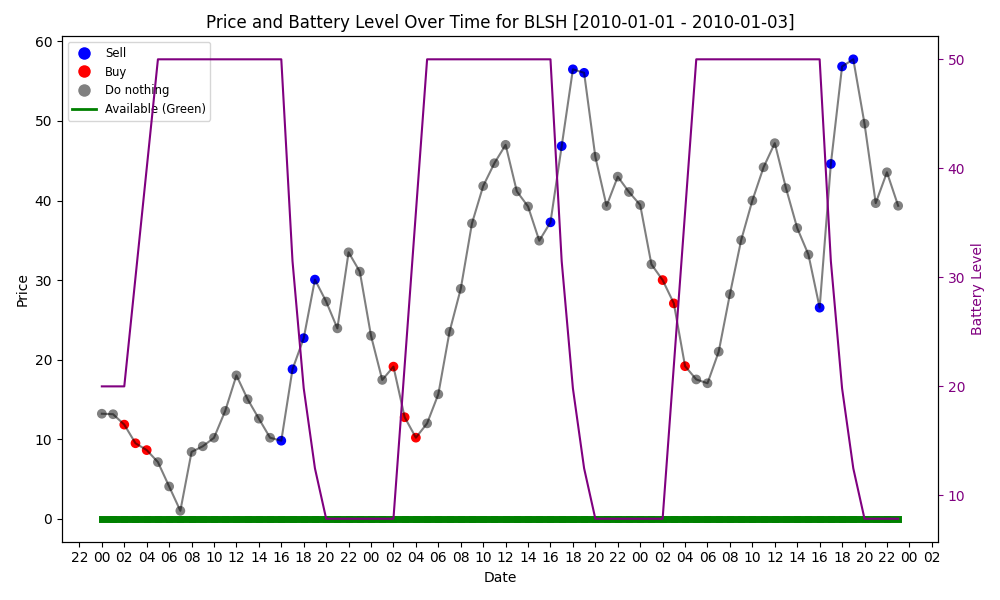
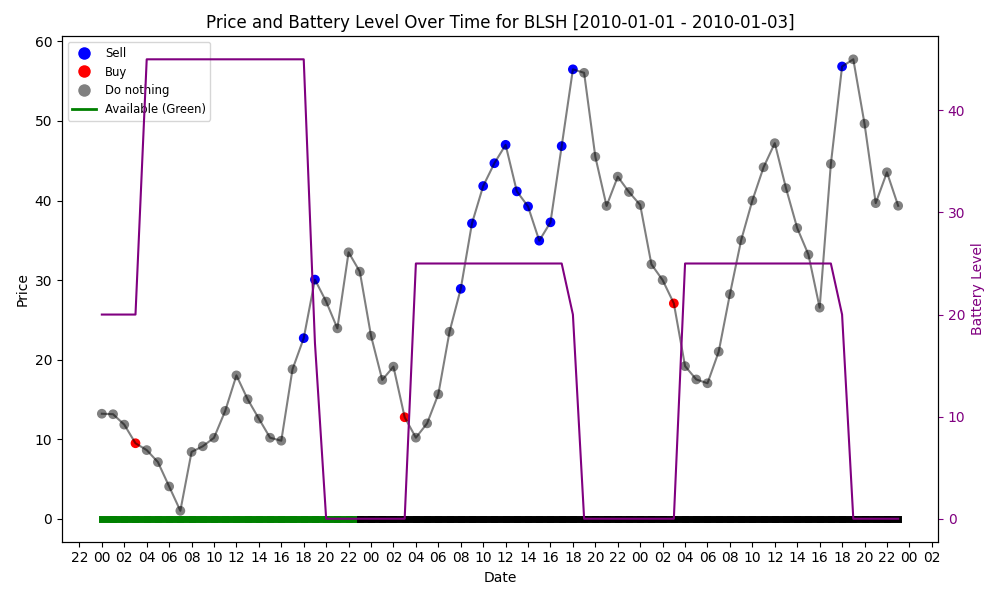
Implement blsh again

diff --git a/algorithms.py b/algorithms.py
@@ -180,8 +180,10 @@ class BuyLowSellHigh:
       # Parameters
       self.new_day = False
       self.action = None
+      self.history = np.array([])
+      self.count = 0
   
-  def choose_action(self, state: list) -> float:
+  def choose_action(self, price: float,  state: list) -> float:
       """ Chooses an action for the current time step.
 
       Args:
@@ -198,16 +200,13 @@ class BuyLowSellHigh:
       # Choose the action 
 
       # Buy in the morning
-      if 3 <= state[1] <= 5:
+      if state[1] == 4:
           # If it is a new day, buy one seventh of the max battery
-          if self.new_day:
-              self.action -= (self.max_battery - state[0]) / 3
-              self.amount = self.action
-              self.new_day = False
-          # Otherwise, buy the same amount as in the previous time step
-          else:
-              self.action += self.amount
-      elif 17 <= state[1] <= 20:
-          self.action = state[0] / (3 if state[2] else 1)
+          self.action -= (self.max_battery - state[0])
+          self.amount = self.action
+          # Append the action to the history
+          self.buy = 2 * price
+      elif 7 <= state[1] <= 20 and price >= self.buy:
+          self.action = state[0]
           
       return self.action

diff --git a/baseline.py b/baseline.py
@@ -10,7 +10,7 @@ from collections import defaultdict
 from data.data_vis import visualize_bat, plot_revenue
 
 # Constants
-NUM_EPISODES = 1  # Define the number of episodes for training
+NUM_EPISODES = 100  # Define the number of episodes for training
 
 def validate_agent(env: Env, agent: Type[QLearningAgent or BuyLowSellHigh or EMA], rl = False) -> None:
     """ Function to validate the agent on a validation set.
@@ -109,7 +109,7 @@ def process_command(env: Env) -> Tuple[QLearningAgent or BuyLowSellHigh or EMA, 
     if sys.argv[1] == 'qlearning':
         return qlearning(), True, 'Q-learning'
     elif sys.argv[1] == 'blsh':
-        return buylowsellhigh(env), True, 'BLSH'
+        return buylowsellhigh(env), False, 'BLSH'
     elif sys.argv[1] == 'ema':
         return ema(env), False, "EMA"
     else: 

diff --git a/data/data_vis.py b/data/data_vis.py
@@ -324,6 +324,20 @@ def plot_revenue(log_env_ql, log_env_blsh, log_env_ema) -> None:
 if __name__ == "__main__":
     # Clean the data
     df = clean_data('data/train.csv')
+
+    # FOr all hours, remove any rows where the value is greater than 150
+    for i in range(1, 25):
+        df = df[df[f'H{i}'] < 150]
+    # For all hours, remove any rows where the value is less than 1
+    for i in range(1, 25):
+        df = df[df[f'H{i}'] > 1]
+
+    # Compute the median across each hour of the dataset
+    df_mean = df.mean()
+    print(df_mean)
+
+
+
     # # Add date columns
     # df = add_date_columns(df)
     # # Save the DataFrame to a csv file

diff --git a/ElectricCarEnv.py b/ElectricCarEnv.py
@@ -59,6 +59,7 @@ class ElectricCarEnv(gym.Env):
         
         # From 8AM to 6PM, unavailable cars can't be charged
         if not (8 <= self.time_of_day <= 18 and not self.car_available):
+            # Calculate the change in battery level
             energy_change = -(action / self.efficiency if action > 0 else action)
             # Update the battery level based on the action and efficiency
             self.battery_level = min(max(self.battery_level + energy_change, 0), self.max_battery)
